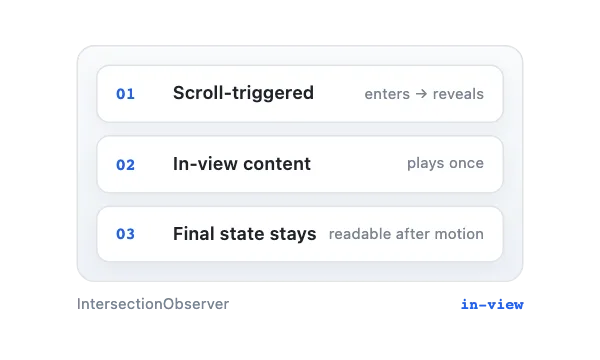
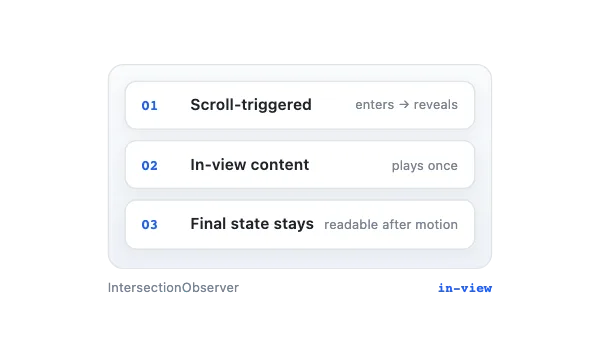
Give scroll-triggered and sidebar room for taller fonts; keep CI screenshots
CI on Linux cut the last scroll-triggered card (the box height was fixed to
what macOS fonts need) and the sidebar window. The box now follows its
content, and both catalog cards are scaled down with margin to spare. When
the catalog check fails, CI uploads screenshots of the cut cards.

diff --git a/demos/scroll-triggered.html b/demos/scroll-triggered.html
@@ -3,6 +3,6 @@
   <div class="st-caption"><span>IntersectionObserver</span><strong>in-view</strong></div>
 </div>
 <style>
-.demo-scroll-triggered{font:12px/1.35 system-ui,-apple-system,sans-serif;color:#20232a;max-width:100%}.st-viewport{height:158px;overflow:hidden;padding:12px;display:grid;gap:8px;border:1px solid #dfe3e8;border-radius:12px;background:linear-gradient(180deg,#f8fafc,#eef2f7)}.st-card{display:grid;grid-template-columns:30px 1fr auto;align-items:center;gap:8px;padding:10px 12px;border:1px solid #dfe3e8;border-radius:9px;background:#fff;box-shadow:0 4px 12px #1e293b0d;opacity:.28;transform:translateY(13px);transition:opacity .55s ease,transform .55s cubic-bezier(.2,.75,.25,1)}.st-card b{color:#2563eb;font:600 11px ui-monospace,monospace}.st-card span{font-weight:600}.st-card small{color:#7a8492}.st-card.is-in{opacity:1;transform:none}.st-card-b{transition-delay:.12s}.st-card-c{transition-delay:.24s}.st-caption{display:flex;justify-content:space-between;margin-top:8px;color:#7a8492;font-size:10px}.st-caption strong{color:#2563eb;font:600 10px ui-monospace,monospace}@media(prefers-reduced-motion:reduce){.st-card{opacity:1;transform:none;transition:none}}
-</style>
+.demo-scroll-triggered{font:12px/1.35 system-ui,-apple-system,sans-serif;color:#20232a;max-width:100%}.st-viewport{overflow:hidden;padding:12px 12px 14px;display:grid;gap:8px;border:1px solid #dfe3e8;border-radius:12px;background:linear-gradient(180deg,#f8fafc,#eef2f7)}.st-card{display:grid;grid-template-columns:30px 1fr auto;align-items:center;gap:8px;padding:10px 12px;border:1px solid #dfe3e8;border-radius:9px;background:#fff;box-shadow:0 4px 12px #1e293b0d;opacity:.28;transform:translateY(13px);transition:opacity .55s ease,transform .55s cubic-bezier(.2,.75,.25,1)}.st-card b{color:#2563eb;font:600 11px ui-monospace,monospace}.st-card span{font-weight:600}.st-card small{color:#7a8492}.st-card.is-in{opacity:1;transform:none}.st-card-b{transition-delay:.12s}.st-card-c{transition-delay:.24s}.st-caption{display:flex;justify-content:space-between;margin-top:8px;color:#7a8492;font-size:10px}.st-caption strong{color:#2563eb;font:600 10px ui-monospace,monospace}@media(prefers-reduced-motion:reduce){.st-card{opacity:1;transform:none;transition:none}}
+@media(max-height:260px){.demo-scroll-triggered{transform:scale(.86)}}</style>
 <script>(function(){var root=document.currentScript.parentElement, cards=[].slice.call(root.querySelectorAll('.st-card'));if(window.matchMedia('(prefers-reduced-motion: reduce)').matches){cards.forEach(function(c){c.classList.add('is-in')});return}var i=0;function reveal(){if(i<cards.length){cards[i++].classList.add('is-in');setTimeout(reveal,650)}else{setTimeout(function(){cards.forEach(function(c){c.classList.remove('is-in')});i=0;setTimeout(reveal,450)},1700)}}setTimeout(reveal,300)})();</script>

diff --git a/demos/sidebar.html b/demos/sidebar.html
@@ -54,6 +54,8 @@
   .demo-sidebar .glyph,
   .demo-sidebar .row { transition: none; }
 }
+/* Catalog card: with fonts taller than PingFang (Linux, Windows) the window outgrows the card stage. */
+@media (max-height: 260px) { .demo-sidebar .win { transform: scale(.84); } }
 </style>
 <script>
 (function () {

diff --git a/dev-log/014-catalog-states-check.md b/dev-log/014-catalog-states-check.md
@@ -57,3 +57,12 @@
 - 待用户：在 Safari 看液态玻璃，在手机上试交互细节手势（链接已发）。
 - 本轮改动已在本地提交，推送到公开仓库（会触发自动部署）等用户同意。
 - CI 多了约 3 分钟（新检查）。
+
+## 追加（8542e1b 推送后 CI 失败，修复）
+
+推送 `8542e1b` 后 CI 的新检查失败，未部署（线上仍是上一版）：GitHub 的 Linux 机器上，`scroll-triggered` 第 3 张卡最终状态被切 14.8px，`sidebar` 窗口在电脑宽度超出卡片 7.9px。Mac 上两者都不超出。
+
+- 原因推测是 Linux 字体不同（没有苹方等字体，行高、字宽都变），内容变高；我把框高写死成 158px 正好只够 Mac。用 DejaVu Sans 强制替换字体在本地模拟，**修复前的版本也没有复现失败**，所以「字体」只是推测，未坐实。
+- 修法不再依赖具体字体：`scroll-triggered` 的框高改回由内容决定，底部留 14px 给卡片滑入的 13px 位移；目录尺寸整体缩到 0.86（Mac 上约 35px 余量）。`sidebar` 目录尺寸缩到 0.84（约 17px 余量）。两张预览图重新生成。
+- CI 的新检查加 `--shots`，失败时把出问题的卡片截图作为 artifact 上传，以后能直接看到 Linux 上的样子。
+- 用户 2026-11-20 同意：本地检查通过即推送。本地 Chromium + WebKit × 电脑 + 手机全部通过。
